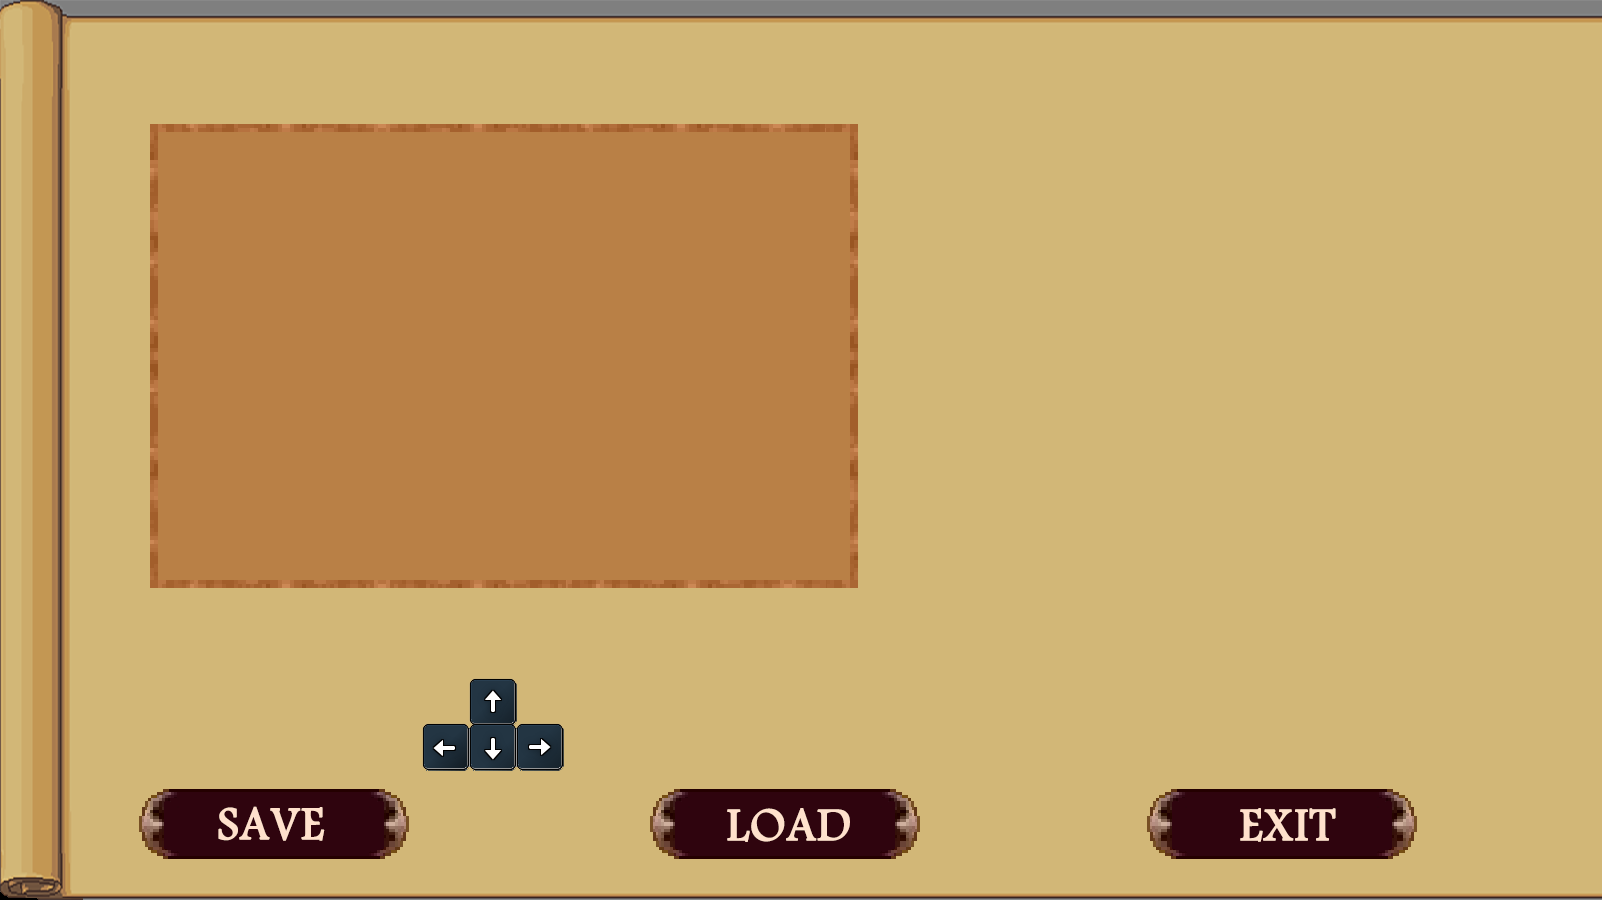
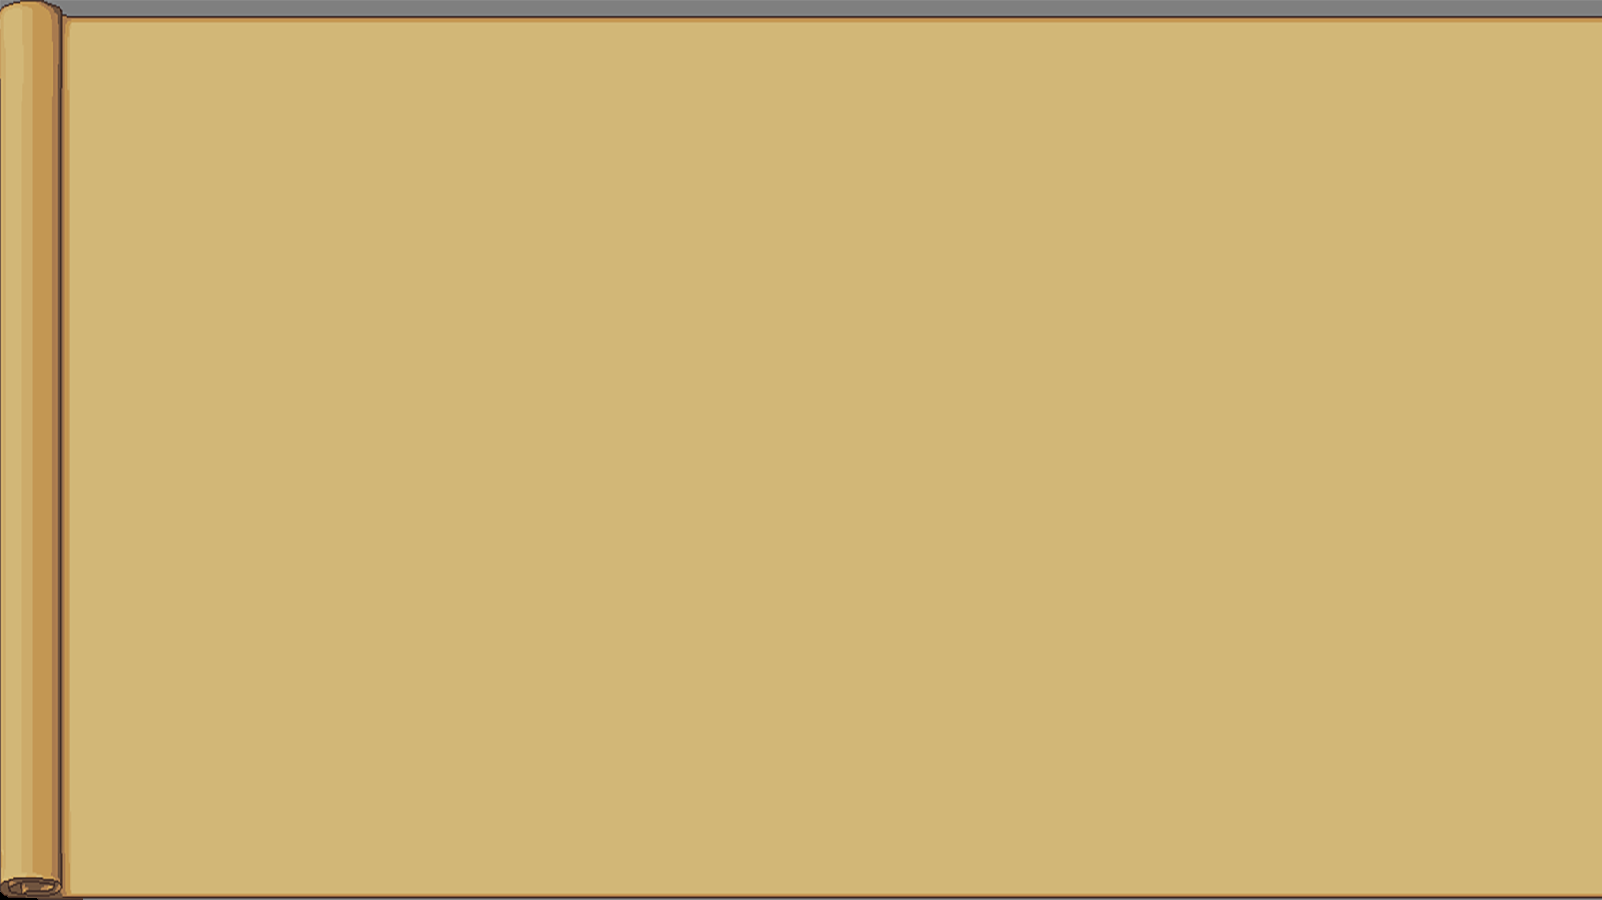
Changes made to Tiles, Objects, some of scenes

diff --git a/Classes/LoadingScene.cpp b/Classes/LoadingScene.cpp
@@ -33,7 +33,7 @@ void LoadingScene::Update()
 	{
 		//▼로딩이 끝나고 이동할 씬
 		SCENEMANAGER->RefcoverAlpha() = 1.f;
-		SCENEMANAGER->LoadScene("TitleScene");
+		SCENEMANAGER->LoadScene("MapToolScene");
 	}
 }
 
@@ -53,56 +53,31 @@ void LoadingScene::Render()
 //▼원래 사용하던 이미지 로딩방법
 void LoadingScene::LoadingImage()
 {
-	//▼프레임, 일반 이미지 로딩 예시
-	//_loading->LoadFrameImage("NPC-상인", L"image/NPC/NPC-상인 할아버지_12장.bmp",12, 1);
-	//_loading->LoadImg("이펙트-말풍선", L"image/NPC/이펙트 - 하이.bmp");
+	//▼통합
+	_loading->LoadImg("Blue", L"IMAGE/ETC/BLUE.png");
+	_loading->LoadImg("Yellow", L"IMAGE/ETC/YELLOW.png");
+	_loading->LoadImg("Green", L"IMAGE/ETC/GREEN.png");
+	_loading->LoadImg("Red", L"IMAGE/ETC/RED.png");
 
-	//▼맵툴용 ٩(இ ⌓ இ๑)۶ 
-	_loading->LoadImg("MapToolBg1", L"IMAGE/MapToolScene/MapToolBg1.png");
-	_loading->LoadImg("MapToolBg2", L"IMAGE/MapToolScene/MapToolBg2.png");
-	_loading->LoadImg("MapToolTitle", L"IMAGE/MapToolScene/MaptoolTitle.png");
-	_loading->LoadImg("MapToolMapbox", L"IMAGE/MapToolScene/MaptoolMapbox.png");
-	_loading->LoadImg("MapToolMat2", L"IMAGE/MapToolScene/MaptoolMat2.png");
-	_loading->LoadImg("oldpaper", L"IMAGE/MapToolScene/oldpaper.png");
+	//▼맵툴용 
+	_loading->LoadImg("MapToolBg1",		L"IMAGE/MapToolScene/MapToolBg1.png");
+	_loading->LoadImg("MapToolBg2",		L"IMAGE/MapToolScene/MapToolBg2.png");
+	_loading->LoadImg("MapToolTitle",	L"IMAGE/MapToolScene/MaptoolTitle.png");
+	_loading->LoadImg("MapToolMapbox",	L"IMAGE/MapToolScene/MaptoolMapbox2.png");
+	_loading->LoadImg("MapToolMat2",	L"IMAGE/MapToolScene/MaptoolMat2.png");
+	_loading->LoadImg("oldpaper",		L"IMAGE/MapToolScene/oldpaper.png");
 	
-	//▼타이틀용 ก็็็็็็็็็็็็็ʕ•͡ᴥ•ʔ ก้้้้้้้้้้้
-	_loading->LoadImg("타이틀백그라운드", L"IMAGE/TitleScene/TitleBackground.png");
-	_loading->LoadImg("타이틀선택박스", L"IMAGE/TitleScene/TitlePick.png");
-	_loading->LoadImg("타이틀텍스트", L"IMAGE/TitleScene/TitleLogo.png");
-	_loading->LoadFrameImage("타이틀팔시온", L"IMAGE/TitleScene/TitleFalchion.png", 34, 1);
+	//▼타이틀용 
+	_loading->LoadImg("타이틀백그라운드",		L"IMAGE/TitleScene/TitleBackground.png");
+	_loading->LoadImg("타이틀선택박스",		L"IMAGE/TitleScene/TitlePick.png");
+	_loading->LoadImg("타이틀텍스트",			L"IMAGE/TitleScene/TitleLogo.png");
+	_loading->LoadFrameImage("타이틀팔시온",	L"IMAGE/TitleScene/TitleFalchion.png", 34, 1);
 
-	/*
-	━━━━━┓ 
-	┓┓┓┓┓┃/ . ` (와장창)
-	┓┓┓┓┓ : .＼○ノ  
-	┓┓┓┓┓┃ ` / 
-	┓┓┓┓┓┃ `ノ) . `
-	┓┓┓┓┓┃ , 
-	┓┓┓┓┓┃
-	┓┓┓┓┓┃
-	┓┓┓┓┓┃
-	┓┓┓┓┓┃
-	┓┓┓┓┓┃
-	*/
-
-	//▼로딩 작동테스트
-	for (int i = 0; i < 80; i++)
-	{
-		_loading->LoadImg("oldpaper", L"IMAGE/MapToolScene/oldpaper.png");
-	}
 }
 
 //▼원래 사용하던 로딩방법
 void LoadingScene::LoadingSound()
 {
-	//▼백그라운드 사운드 로딩 예시
-	//_loading->LoadSound("시네마틱", "SOUND/Intro_Cinematic.ogg", true, true);
-
-	//▼효과음 로딩 예시
-	//_loading->LoadSound("구출", "SOUND/villager_save.ogg", false, false);
-
-
-
 	//▼맵툴용
 	_loading->LoadSound("맵툴BGM", "SOUND/FE/MapTool_Road Taken.mp3", true, true);
 	//▼타이틀용

diff --git a/Classes/testScene.cpp b/Classes/testScene.cpp
@@ -5,14 +5,6 @@
 testScene::testScene()
 {
 	IMAGEMANAGER->AddImage("temp", L"IMAGE/ETC/3.bmp");
-	for (int i = 0; i < 25; i++)
-	{
-		for (int j = 0; j < 25; j++)
-		{
-			testVec.push_back(RectMake(200+j * 25,i * 25, 25, 25));
-		}
-	}
-	
 }
 
 
@@ -22,6 +14,14 @@ testScene::~testScene()
 
 void testScene::Init()
 {
+	for (int i = 0; i < 25; i++)
+	{
+		for (int j = 0; j < 25; j++)
+		{
+			testVec.push_back(RectMake(200 + j * 48, i * 48, 48, 48));
+		}
+	}
+	SetCoverStatue::FadeIn;
 }
 
 void testScene::Release()
@@ -30,22 +30,22 @@ void testScene::Release()
 
 void testScene::Update()
 {
-	if(KEYMANAGER->IsOnceKeyDown(VK_RETURN))
-	SCENEMANAGER->LoadScene("TitleScene");
+	if (KEYMANAGER->IsOnceKeyDown(VK_RETURN))
+		SCENEMANAGER->LoadScene("TitleScene");
 }
 
 void testScene::Render()
 {
-	//for (auto a : testVec)
-	//{
-	//	D2DRENDERER->DrawRectangle(a, D2DRenderer::DefaultBrush::Blue);
-	//	IMAGEMANAGER->FindImage("temp")->SkewRender(a.left, a.top, 10, 0);
-	//}
-	for (float i = 0; i < 25*25; i++)
+	for (auto a : testVec)
+	{
+		D2DRENDERER->DrawRectangle(a, D2DRenderer::DefaultBrush::Blue);
+		//	IMAGEMANAGER->FindImage("temp")->SkewRender(a.left, a.top, 10, 0);
+	}
+	for (float i = 0; i < 25 * 25; i++)
 	{
 		//for (int j = 0; j < 25; j++)
 		{
-			IMAGEMANAGER->FindImage("temp")->SkewRender(testVec[i].left, testVec[i].top, (i/15.f), 0);
+			IMAGEMANAGER->FindImage("temp")->SkewRender(testVec[i].left, testVec[i].top, (i / 25.f), 0);
 		}
 	}
 }

diff --git a/Classes/Camera.h b/Classes/Camera.h
@@ -15,7 +15,7 @@ private:
 	RECT cRc;
 public:
 	const RECT &GetCameraRc() const{ return cRc; }
-	void SetCamera(RECT& _cRc) { cRc = _cRc; }
+	void SetCamera(RECT _cRc) { cRc = _cRc; }
 	RECT &RefCameraRc() { return cRc; }
 };
 

diff --git a/Classes/GameObject.cpp b/Classes/GameObject.cpp
@@ -1,12 +1,3 @@
 #include "../stdafx.h"
 #include "GameObject.h"
 
-
-GameObject::GameObject()
-{
-}
-
-
-GameObject::~GameObject()
-{
-}

diff --git a/Classes/Camera.cpp b/Classes/Camera.cpp
@@ -4,7 +4,7 @@
 
 Camera::Camera()
 {
-	cRc = { 0,0,700,500 };
+	cRc = { 0,0,WINSIZEX,WINSIZEY};
 }
 
 

diff --git a/stdafx.h b/stdafx.h
@@ -89,3 +89,4 @@ extern HINSTANCE	_hInstance;
 extern HWND			_hWnd;
 extern POINT		_ptMouse;
 
+
